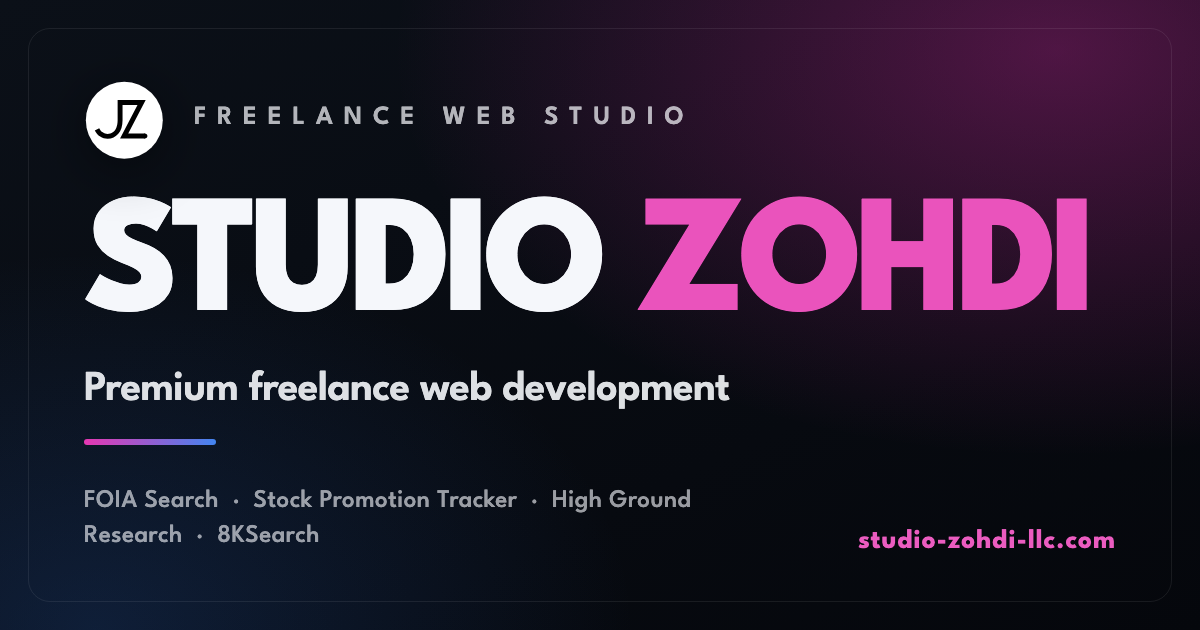
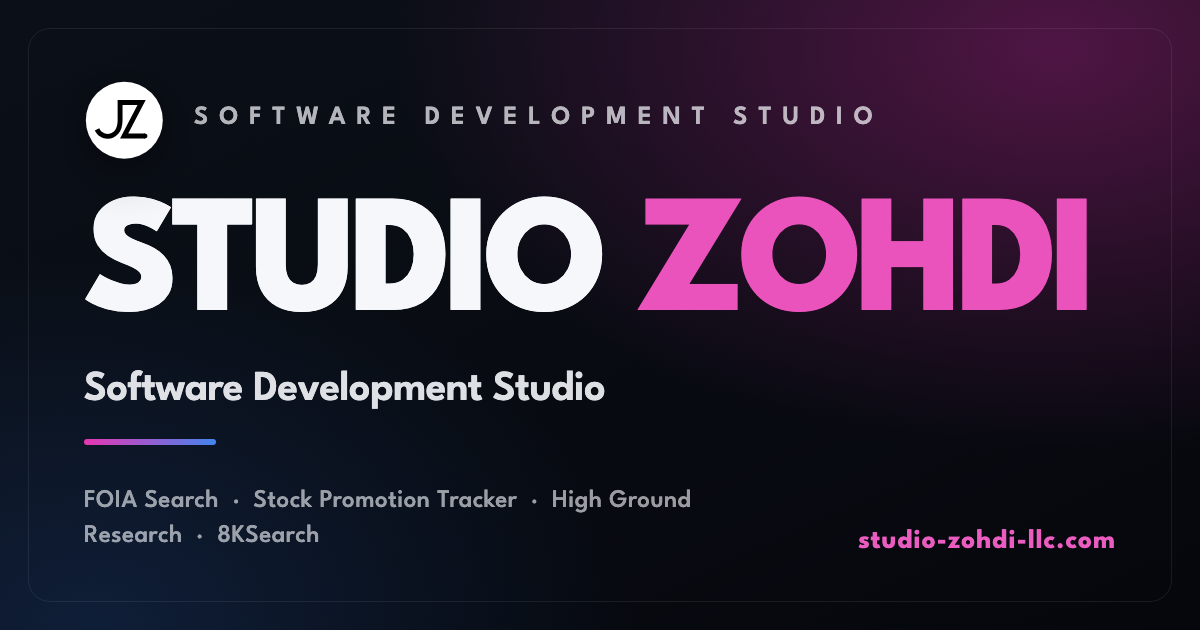
improving SEO and og:image

Changed region(s): [[0.1542, 0.1508, 0.5858, 0.2111], [0.0617, 0.573, 0.6167, 0.6635], [0.6167, 0.1508, 0.74, 0.2111]]

diff --git a/src/lib/seo/structured-data.ts b/src/lib/seo/structured-data.ts
@@ -20,13 +20,25 @@ export function organizationSchema(): Record<string, unknown> {
 		description: SITE.description,
 		logo: absoluteUrl('/favicon_io/android-chrome-512x512.png'),
 		image: absoluteUrl(SITE.ogImage),
-		slogan: 'Premium freelance web development',
+		slogan: 'Software Development Studio',
 		knowsAbout: [
-			'Web development',
-			'SvelteKit',
-			'Frontend engineering',
+			'Software development',
 			'Product design',
-			'Data visualization'
+			'Data visualization',
+			'AI',
+			'Machine learning',
+			'Web development',
+			'Frontend engineering',
+			'Backend engineering',
+			'Full-stack engineering',
+			'DevOps',
+			'Cloud computing',
+			'Database management',
+			'Data modeling',
+			'Data security',
+			'Scalability',
+			'Performance optimization',
+			'Security'
 		],
 		areaServed: 'Worldwide'
 	};

diff --git a/src/lib/seo/site.ts b/src/lib/seo/site.ts
@@ -8,12 +8,12 @@ export const SITE = {
 	name: 'Studio Zohdi',
 	/** Short title suffix appended to per-page titles. */
 	titleSuffix: 'Studio Zohdi',
-	defaultTitle: 'Studio Zohdi | Premium freelance web development',
+	defaultTitle: 'Studio Zohdi | Software Development Studio',
 	description:
-		'Studio Zohdi is a premium freelance web development studio showcasing recent client work across product, commerce, creative, and energy experiences.',
+		'Studio Zohdi is a Software Development Studio showcasing recent client work across product, commerce, creative, and energy experiences.',
 	/** 1200×630 social share card, served from `static/`. */
 	ogImage: '/og-image.png',
-	ogImageAlt: 'Studio Zohdi — premium freelance web development',
+	ogImageAlt: 'Studio Zohdi — Software Development Studio',
 	locale: 'en_US',
 	twitterCard: 'summary_large_image'
 } as const;

diff --git a/README.md b/README.md
@@ -1,6 +1,6 @@
 # Studio Zohdi
 
-Studio Zohdi is a SvelteKit marketing and portfolio website for a freelance web development business. The current focus is building a polished, responsive homepage with tasteful motion, clean theming, and a structure that can grow as real case-study content is added.
+Studio Zohdi is a SvelteKit marketing and portfolio website for a freelance Software Development Studio business. The current focus is building a polished, responsive homepage with tasteful motion, clean theming, and a structure that can grow as real case-study content is added.
 
 ## Stack
 

diff --git a/docs/site-spec.md b/docs/site-spec.md
@@ -2,7 +2,7 @@
 
 ## Purpose
 
-Build a premium portfolio and company website for a freelance web development business. The site should feel modern, confident, and polished while staying clear, fast, and professional.
+Build a premium portfolio and company website for a Software Development Studio business. The site should feel modern, confident, and polished while staying clear, fast, and professional.
 
 ## Design Direction
 